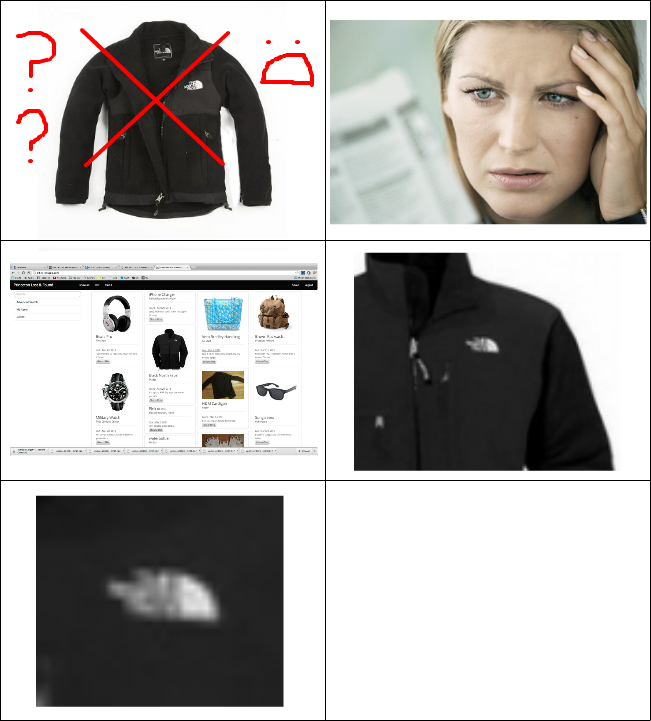
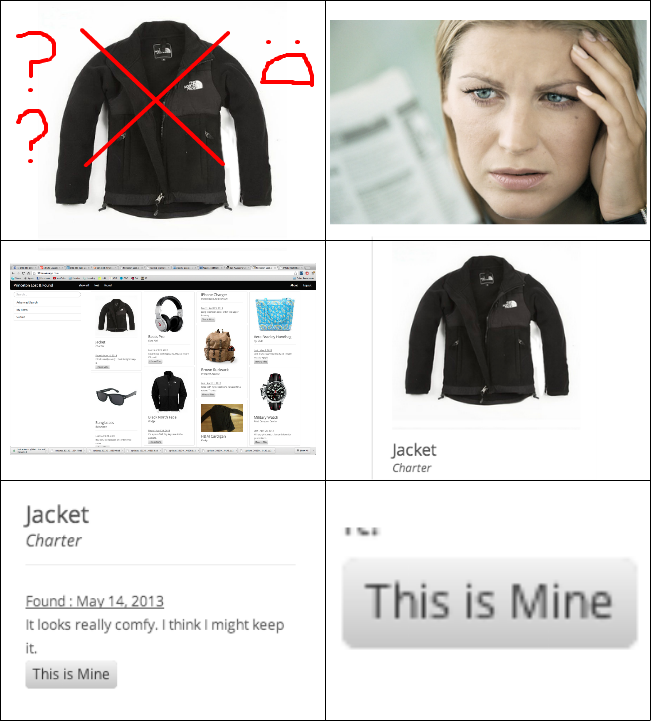
bitches

diff --git a/productpage.html b/productpage.html
@@ -18,9 +18,16 @@ b {
 
 <body bgcolor="ffffff">
 
-<h1><a>Remember that time you lost your black North Face jacket at Charter Fridays?</a></h1>
+<h1><a>Remember that time you lost your jacket at Charter Fridays?</a></h1>
 
-<b>We're here to help.</b>
+<img src="ragecomic.png">
+<p><img src="jd.gif"></p>
+<p>
+<a>We're here to help.</a>
+</p>
 
+<p>
+	Princeton Lost and Found (PLF) is a TigerApp designed to make the return of missing items to members of the Princeton community as quick and painless as possible.
+</p>
 </body>
 </html>
